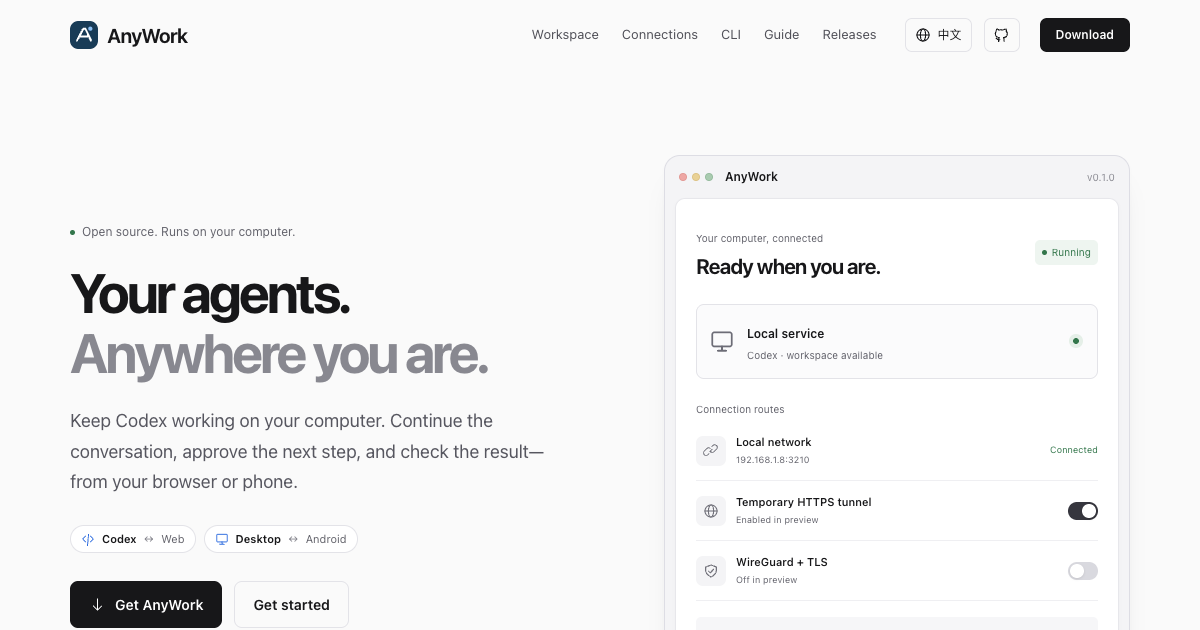
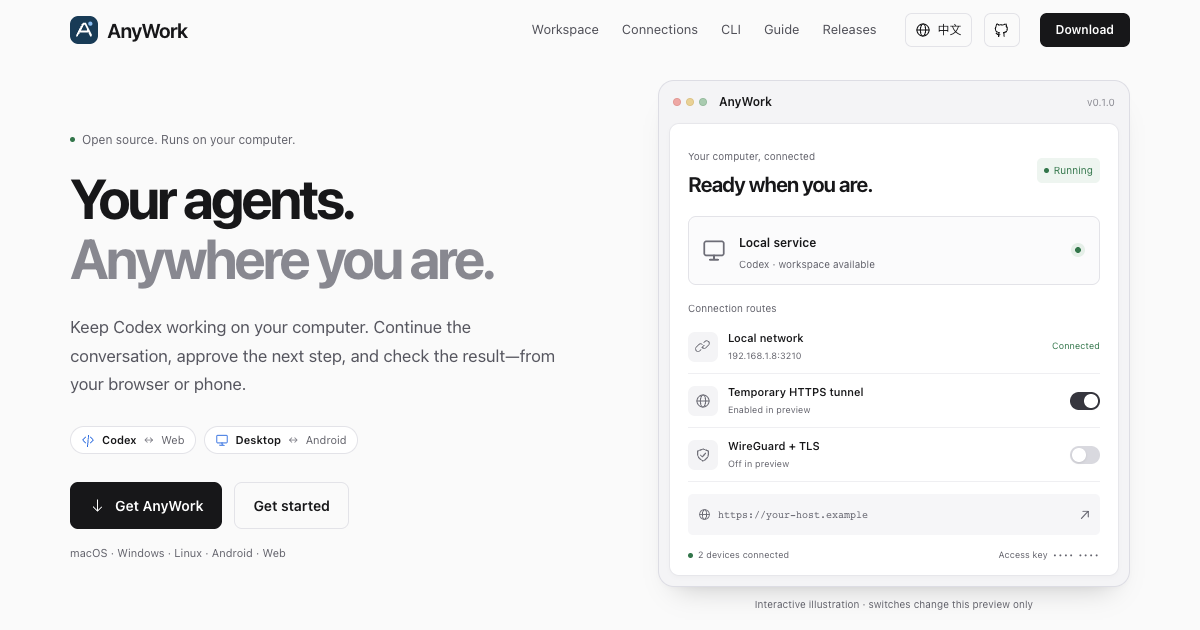
Select website language from browser preferences and remember manual choices

diff --git a/site/app.js b/site/app.js
@@ -40,8 +40,12 @@ for (const toggle of document.querySelectorAll('[data-demo-switch]')) {
     status.textContent = enabled ? status.dataset.on : status.dataset.off;
   });
 }
-// Language remains an explicit, shareable URL. Remember a choice without forced redirects.
-try { localStorage.setItem('anywork-site-language', document.body.dataset.lang); } catch {}
+// Remember explicit choices only. An automatically selected page must not
+// overwrite the browser's preference, and explicit language URLs never redirect.
+document.querySelector('a.language').addEventListener('click', event => {
+  const language = event.currentTarget.getAttribute('hreflang') === 'zh-CN' ? 'zh' : 'en';
+  try { localStorage.setItem('anywork-site-preferred-language', language); } catch {}
+});
 const releaseURL = 'https://api.github.com/repos/ywateru/AnyWork/releases/latest';
 function applyRelease(release) {
   if (!release || !Array.isArray(release.assets) || release.draft || release.prerelease) return;

diff --git a/site/template.html b/site/template.html
@@ -2,6 +2,7 @@
 <html lang="$htmlLang">
 <head>
 <meta charset="utf-8"><meta name="viewport" content="width=device-width, initial-scale=1">
+$languageRedirect
 <title>$title</title><meta name="description" content="$description"><meta name="theme-color" content="#fafafa">
 <link rel="canonical" href="$canonical"><link rel="alternate" hreflang="en" href="https://ywateru.github.io/AnyWork/en/"><link rel="alternate" hreflang="zh-CN" href="https://ywateru.github.io/AnyWork/zh/"><link rel="alternate" hreflang="x-default" href="https://ywateru.github.io/AnyWork/">
 <meta property="og:type" content="website"><meta property="og:title" content="$title"><meta property="og:description" content="$description"><meta property="og:url" content="$canonical"><meta property="og:locale" content="$locale"><meta property="og:image" content="https://ywateru.github.io/AnyWork/assets/social.png"><meta name="twitter:card" content="summary_large_image">

diff --git a/scripts/build-site.py b/scripts/build-site.py
@@ -50,6 +50,23 @@ def main():
                 values[key] = values[key].replace('&lt;br&gt;', '<br>')
             prefix = '.' if root else '..'
             values.update(assetPrefix=prefix, htmlLang='zh-CN' if lang == 'zh' else 'en', otherHtmlLang='zh-CN' if lang == 'en' else 'en', homeUrl='./', otherUrl=('./' if root else '../') + raw['otherLang'] + '/', canonical=BASE + ('/' if root else f'/{lang}/'), guideUrl=REPO + '/blob/main/docs/' + raw['guideFile'])
+            # Only the language-neutral entry point negotiates language. Deep
+            # links and manual choices remain stable and shareable. Run before
+            # rendering to avoid briefly showing English to Chinese browsers.
+            values['languageRedirect'] = '''<script>
+(() => {
+  let preferred;
+  try { preferred = localStorage.getItem('anywork-site-preferred-language'); } catch {}
+  const browser = (navigator.languages || [navigator.language || 'en'])
+    .map(language => language.toLowerCase().split('-')[0])
+    .find(language => language === 'zh' || language === 'en') || 'en';
+  const language = ['en', 'zh'].includes(preferred) ? preferred : browser;
+  const target = new URL('./' + language + '/', location.href);
+  target.search = location.search;
+  target.hash = location.hash;
+  location.replace(target.href);
+})();
+</script>''' if root else ''
             values['releaseStatus'] = html.escape(raw['releaseAvailable'] + ': ' + release['tag_name'] if release else raw['releaseLoading'])
             assets = {asset['name']: asset for asset in release['assets']} if release else {}
             def url(name):
